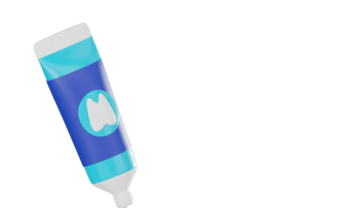
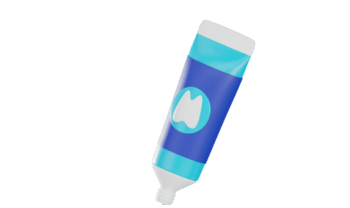
did step 0

Changed region(s): [[0.4286, 0.0865, 0.7429, 1.0], [0.0857, 0.1154, 0.4, 1.0]]

diff --git a/src/components/ToothbrushGame.jsx b/src/components/ToothbrushGame.jsx
@@ -4,15 +4,20 @@ import './ToothbrushGame.css'
 import toothbrushNoPaste from '../assets/toothbrush-nopaste.png'
 import toothbrushCursor from '../assets/toothbrush-cursor.png'
 import toothpasteImg from '../assets/Toothpaste.png'
+import goodJobImg from '../assets/goodjob.png'
 
-// Simple bristles region ratio (rightmost 30% of toothbrush)
-const BRISTLES_PORTION = 0.30
+// Bristles hitbox portions (upper-right of brush head)
+const BRISTLES_WIDTH_PORTION = 0.30
+const BRISTLES_HEIGHT_PORTION = 0.55
+const BRISTLES_TOP_OFFSET_PORTION = -0.30
 
 export default function ToothbrushGame() {
   const [hasPaste, setHasPaste] = useState(false)
   const [dragging, setDragging] = useState(false)
   const [cursorPos, setCursorPos] = useState({ x: 0, y: 0 })
   const [overBristles, setOverBristles] = useState(false)
+  const [showSuccess, setShowSuccess] = useState(false)
+  const [cleared, setCleared] = useState(false)
 
   const brushRef = useRef(null)
   const containerRef = useRef(null)
@@ -22,16 +27,19 @@ export default function ToothbrushGame() {
     const handleMove = (e) => {
       if (!dragging) return
       setCursorPos({ x: e.clientX, y: e.clientY })
-      // Collision check with bristles sub-rect
+      // Collision check with bristles sub-rect (upper-right focus)
       if (brushRef.current) {
         const rect = brushRef.current.getBoundingClientRect()
+        const top = rect.top + rect.height * BRISTLES_TOP_OFFSET_PORTION
+        const width = rect.width * BRISTLES_WIDTH_PORTION
+        const height = rect.height * BRISTLES_HEIGHT_PORTION
         const bristlesRect = {
-          left: rect.right - rect.width * BRISTLES_PORTION,
-          top: rect.top,
+          left: rect.right - width,
+          top,
           right: rect.right,
-          bottom: rect.bottom,
-          width: rect.width * BRISTLES_PORTION,
-          height: rect.height
+          bottom: top + height,
+          width,
+          height
         }
         // Treat toothpaste image as a point at cursor center for simplicity
         const over = e.clientX >= bristlesRect.left &&
@@ -64,46 +72,74 @@ export default function ToothbrushGame() {
     setCursorPos({ x: e.clientX, y: e.clientY })
   }
 
+  // When paste is applied, wait 3s, then show success overlay, then clear
+  useEffect(() => {
+    if (hasPaste) {
+      const showTimer = setTimeout(() => {
+        setShowSuccess(true)
+        const clearTimer = setTimeout(() => setCleared(true), 1200)
+        return () => clearTimeout(clearTimer)
+      }, 1500)
+      return () => clearTimeout(showTimer)
+    }
+  }, [hasPaste])
+
+  if (cleared) {
+    return (
+      <div className="toothbrush-game cleared" />
+    )
+  }
+
   return (
     <div
       ref={containerRef}
       className={`toothbrush-game ${dragging ? 'dragging-active' : ''}`}
     >
-      <div className={`brush-dropzone ${overBristles ? 'bristles-hot' : ''}`}>
-        <img
-          ref={brushRef}
-          src={hasPaste ? toothbrushCursor : toothbrushNoPaste}
-          alt={hasPaste ? 'Toothbrush with paste' : 'Toothbrush without paste'}
-          className="toothbrush-img"
-          draggable={false}
-        />
-        {!hasPaste && (
-          <div className="hint">Drag toothpaste onto bristles</div>
+      <div className="step-instruction">
+        <div className="step-title">Step 0:</div>
+        <div className="step-sub">Drag the toothpaste to apply it to the toothbrush</div>
+      </div>
+      <div className="play-container">
+        <div className={`brush-dropzone ${overBristles ? 'bristles-hot' : ''}`}>
+          <img
+            ref={brushRef}
+            src={hasPaste ? toothbrushCursor : toothbrushNoPaste}
+            alt={hasPaste ? 'Toothbrush with paste' : 'Toothbrush without paste'}
+            className="toothbrush-img"
+            draggable={false}
+          />
+          {/* Visualize bristles region for debugging (optional) */}
+          {!hasPaste && (
+            <div className="bristles-region" aria-hidden="true" />
+          )}
+        </div>
+
+        {/* Starting toothpaste (click & hold to drag) */}
+        {!hasPaste && !dragging && (
+          <img
+            src={toothpasteImg}
+            alt="Toothpaste"
+            className="toothpaste-img start"
+            onPointerDown={startDrag}
+          />
         )}
-        {/* Visualize bristles region for debugging (optional) */}
-        {!hasPaste && (
-          <div className="bristles-region" aria-hidden="true" />
+
+        {/* Floating toothpaste following cursor while dragging */}
+        {dragging && !hasPaste && (
+          <img
+            src={toothpasteImg}
+            alt="Toothpaste (dragging)"
+            className="toothpaste-img floating"
+            style={{ left: cursorPos.x, top: cursorPos.y }}
+          />
         )}
       </div>
 
-      {/* Starting toothpaste (click & hold to drag) */}
-      {!hasPaste && !dragging && (
-        <img
-          src={toothpasteImg}
-          alt="Toothpaste"
-          className="toothpaste-img"
-          onPointerDown={startDrag}
-        />
-      )}
-
-      {/* Floating toothpaste following cursor while dragging */}
-      {dragging && !hasPaste && (
-        <img
-          src={toothpasteImg}
-          alt="Toothpaste (dragging)"
-          className="toothpaste-img floating"
-          style={{ left: cursorPos.x, top: cursorPos.y }}
-        />
+      {showSuccess && (
+        <div className="success-overlay">
+          <div className="backdrop" />
+          <img src={goodJobImg} alt="Good job" className="success-popup" />
+        </div>
       )}
     </div>
   )

diff --git a/src/components/ToothbrushGame.css b/src/components/ToothbrushGame.css
@@ -9,12 +9,28 @@
 	gap: 4rem;
 }
 
+.play-container {
+	position: relative;
+	width: min(92vw, 1200px);
+	min-height: 60vh;
+	padding: 32px 48px;
+	border-radius: 24px;
+	background: #ffffff;
+	border: 3px solid rgba(147, 191, 199, 0.35);
+	box-shadow: 0 14px 40px rgba(147, 191, 199, 0.35), 0 4px 0 rgba(147,191,199,0.35) inset;
+	display: flex;
+	align-items: center;
+	justify-content: flex-start;
+	overflow: hidden;
+}
+
 .brush-dropzone {
 	position: relative;
-	width: clamp(240px, 30vw, 520px);
+	width: clamp(880px, 42vw, 880px);
 	aspect-ratio: 3 / 1;
 	display: grid;
 	place-items: center;
+	transform: translateY(35%);
 }
 
 .brush-dropzone.dragging::after {
@@ -43,7 +59,7 @@
 }
 
 .toothpaste-img {
-	width: clamp(180px, 18vw, 300px); /* enlarged */
+	width: clamp(320px, 28vw, 520px);
 	height: auto;
 	cursor: grab;
 	user-select: none;
@@ -61,17 +77,41 @@
 	pointer-events: none;
 }
 
+/* Initial spawn position for toothpaste */
+.toothpaste-img.start {
+	position: absolute;
+	top: 16px;
+	right: 24px;
+	transform: translateX(20%);
+}
+
 .dragging-active {
 	cursor: none; /* hide native cursor while dragging */
+}
+
+/* Top-left instruction under navbar */
+.step-instruction {
+	position: absolute;
+	top: -32px;
+	left: 24px;
+	color: #93BFC7; /* match navbar background color */
+}
+.step-title {
+	font-size: 3.5rem;
+	font-weight: 800;
+}
+.step-sub {
+	font-size: 1.5rem;
+	font-weight: 600;
 }
 
 /* Bristles region overlay (debug) */
 .bristles-region {
 	position: absolute;
-	top: 0;
+	top: 10%;
 	right: 0; /* rightmost portion now */
 	width: 30%;
-	height: 100%;
+	height: 25%;
 	pointer-events: none;
 	background: linear-gradient(270deg, rgba(255,255,255,0.35), rgba(255,255,255,0));
 	mix-blend-mode: overlay;
@@ -90,4 +130,36 @@
 	border-radius: 12px;
 	pointer-events: none;
 	box-shadow: 0 0 12px rgba(76,175,80,0.5);
+}
+
+/* Success overlay with popup animation */
+.success-overlay {
+	position: fixed;
+	inset: 0;
+	display: grid;
+	place-items: center;
+	z-index: 1000;
+}
+.success-overlay .backdrop {
+	position: absolute;
+	inset: 0;
+	background: rgba(0,0,0,0.5);
+	backdrop-filter: blur(4px);
+}
+.success-popup {
+	position: relative;
+	width: min(60vw, 520px);
+	height: auto;
+	animation: popIn 500ms ease-out both;
+}
+
+@keyframes popIn {
+	0% { opacity: 0; transform: scale(0.8); }
+	60% { opacity: 1; transform: scale(1.05); }
+	100% { opacity: 1; transform: scale(1); }
+}
+
+/* Cleared state placeholder */
+.toothbrush-game.cleared {
+	background: transparent;
 }
